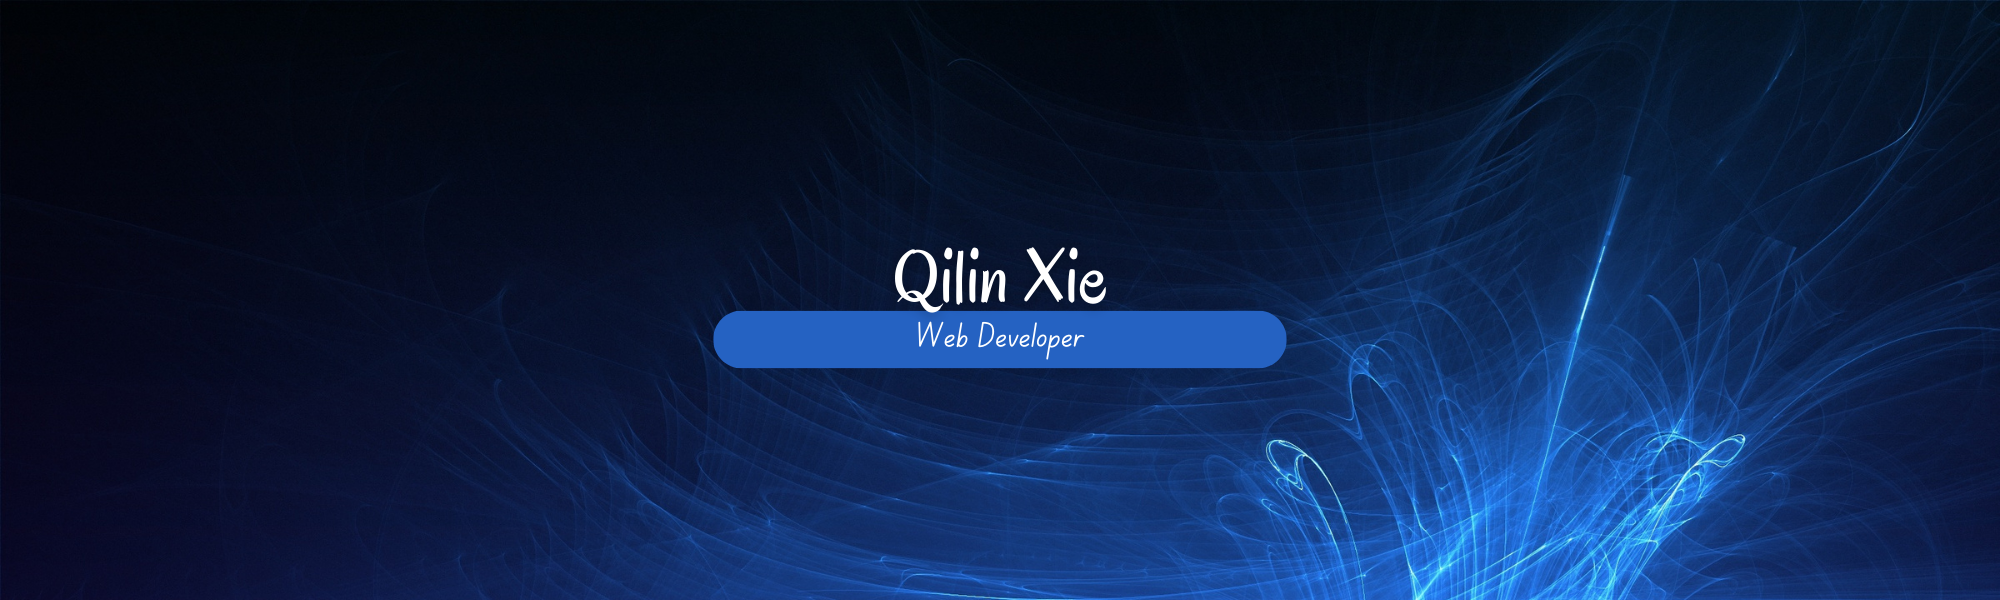
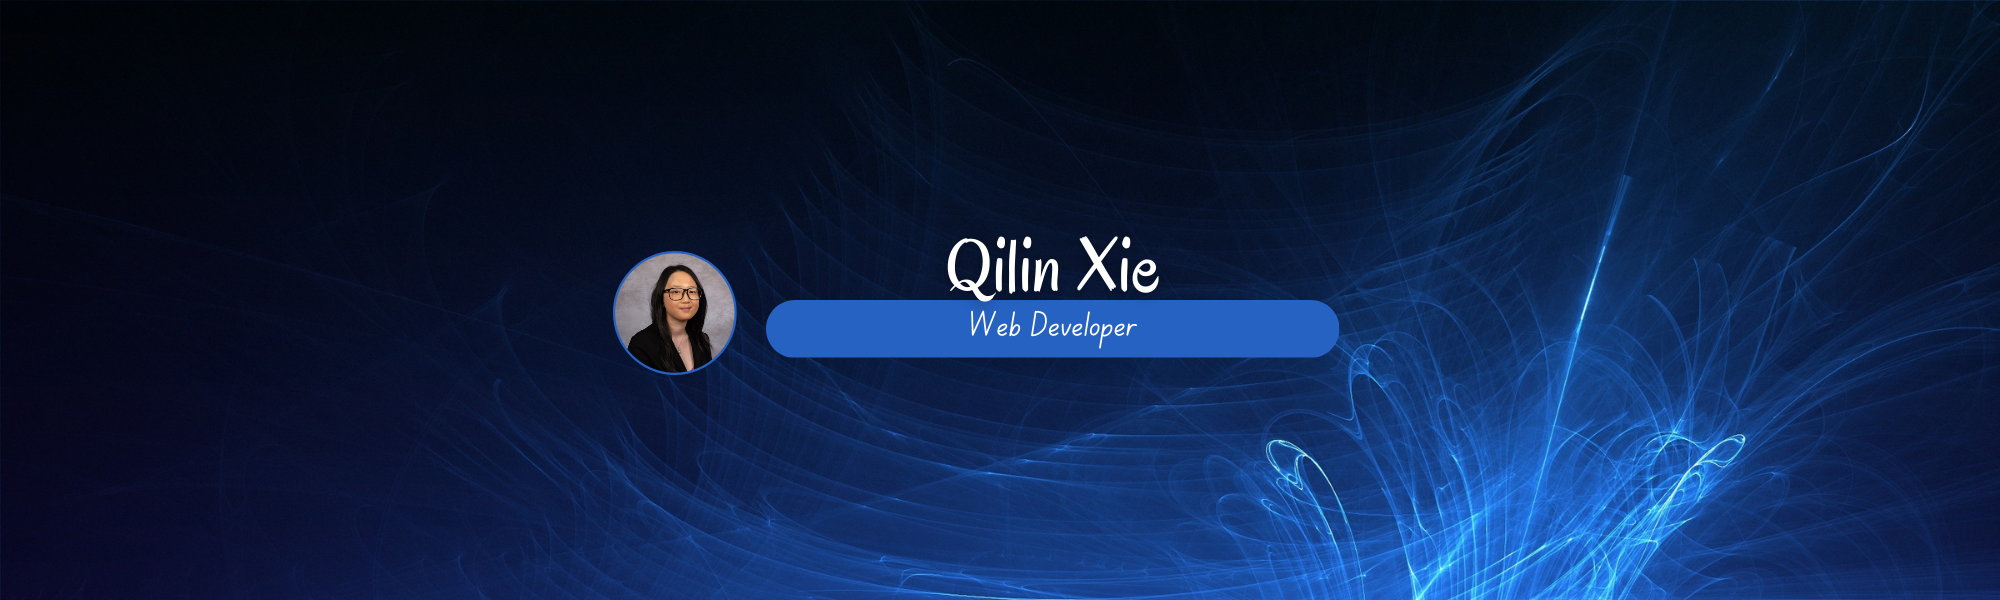
finalized my timeline project

Changed region(s): [[0.279, 0.39, 0.682, 0.63]]

diff --git a/index.html b/index.html
@@ -15,19 +15,12 @@
        <br>  <br>  <br>  <br>  <br>  <br>  <br>  <br>
     </header>
 
-    <section class="intro">
-      <img src="img/headshot.jpg" class="profile-image">
-      <h2>Qilin X.</h2>
-
   </section>
-    <section>
+    <section class="intro">
         <h2>Contact Information</h2>
-        <ul>
             <li>Email: qxie@gicw.org</li>
-            <li>Phone: ###</li>
             <li>LinkedIn: <a href="https://www.linkedin.com/in/qilinxie/" target="_blank">linkedin.com/in/qilinxie</a></li>
             <li>GitHub: <a href="https://github.com/QILINXIE02" target="_blank">github.com/QILINXIE02</a></li>
-        </ul>
     </section>
 
     <section>
@@ -55,7 +48,7 @@
     </section>
     
     <section>
-        <h2>Projects</h2>
+        <h2>Project</h2>
         <strong>
             <a href="https://github.com/Team-QUICM/Tea-Explorer" target="_blank">
                 Tea Explorer Website, Nov 2023
@@ -80,7 +73,7 @@
     </section>
 
     <section>
-      <h2>Experiences timeline</h2>
+      <h2>Experiences Timeline</h2>
       <ul class="timeline">
           <li class="animate-in">
               <div class="content">
@@ -94,6 +87,8 @@
                   <h3>💼 Career Center Instructor, Microsoft Educator </h3>
                   <p>Sep 2023 - Current </p>
                   <p>Goodwill Industries of columbia Willamette, Salem, OR </p>
+                  <p>click to see more: <a href="https://qilinxie02.github.io/resume/" target="_blank" class="btn">Visit my page</a>
+                  </p>
               </div>
           </li>
           <li class="animate-in">
@@ -112,7 +107,7 @@
         </li>
         <li class="animate-in">
           <div class="content">
-              <h3>🏫 PreK aid</h3>
+              <h3>🏫 PreK Aid</h3>
               <p>Jan - May 2023</p>
               <p>Bush Elementary school, Salem, OR</p>
           </div>
@@ -154,7 +149,7 @@
 </li>
 <li class="animate-in">
   <div class="content">
-      <h3>🧑🏫 Tutor/Mentor</h3>
+      <h3>🧑🏫 Tutor / Mentor</h3>
       <p>Oct - Dec 2021</p>
       <p>Global Partner for Student Success (GPSS), Willamette University, Salem, OR </p>
   </div>

diff --git a/style.css b/style.css
@@ -2,7 +2,7 @@ body {
   font-family: Arial, sans-serif;
   margin: 0;
   padding: 0;
-  background-color: #f4f4f4;
+  background-color: #2562C2;
 }
 
 header {
@@ -12,12 +12,18 @@ header {
   padding: 1em 0;
 }
 
+.intro {
+  display: flex;
+  flex-direction: column;
+  align-items: center;
+  text-align: center;
+}
 
 section {
-  max-width: 800px;
+  max-width: 1200px;
   margin: 20px auto;
   padding: 20px;
-  background-color: white;
+  background-color: rgb(210, 234, 254);
   box-shadow: 0 0 10px rgba(0, 0, 0, 0.1);
   border-radius: 8px;
 }
@@ -45,7 +51,7 @@ li {
 }
 
 .skill {
-  background-color: #4CAF50;
+  background-color:#4AB5F0;
   color: white;
   padding: 8px 16px;
   margin: 4px;
@@ -62,7 +68,7 @@ li {
   margin-top: 30px;
   list-style: none;
   padding: 0;
-  overflow: hidden; /* Hide overflow to clip the connecting line */
+  overflow: hidden; 
 }
 
 .timeline:before {
@@ -72,7 +78,7 @@ li {
   top: 0;
   width: 2px;
   height: 100%;
-  background-color: #3498db;
+  background-color: #2562C2;
   z-index: 0;
 }
 
@@ -96,7 +102,7 @@ li {
   top: 20px;
   width: 2px;
   height: calc(100% - 40px);
-  background-color: #3498db;
+  background-color:#2562C2;
   z-index: 1;
 }
 
@@ -125,7 +131,6 @@ li {
   margin-left: 20px;
 }
 
-/* Add animation classes */
 .animate-in {
   opacity: 0;
   transform: translateY(30px);
@@ -137,7 +142,7 @@ li {
 }
 
 Footer {
-  background-color: #333;
+  background-color: #0A0C233;
   color: white;
   text-align: center;
   padding: 1em 0;

diff --git a/README.md b/README.md
@@ -1,1 +1,8 @@
 # resume-timeline
+
+This color picking website was very helpful when synchronizing colors on this page: https://redketchup.io/color-picker
+
+preview of page:
+![Alt text](<Web capture_8-12-2023_111147_localhost.jpeg>)
+
+deployed website: https://qilinxie02.github.io/resume-timeline/
